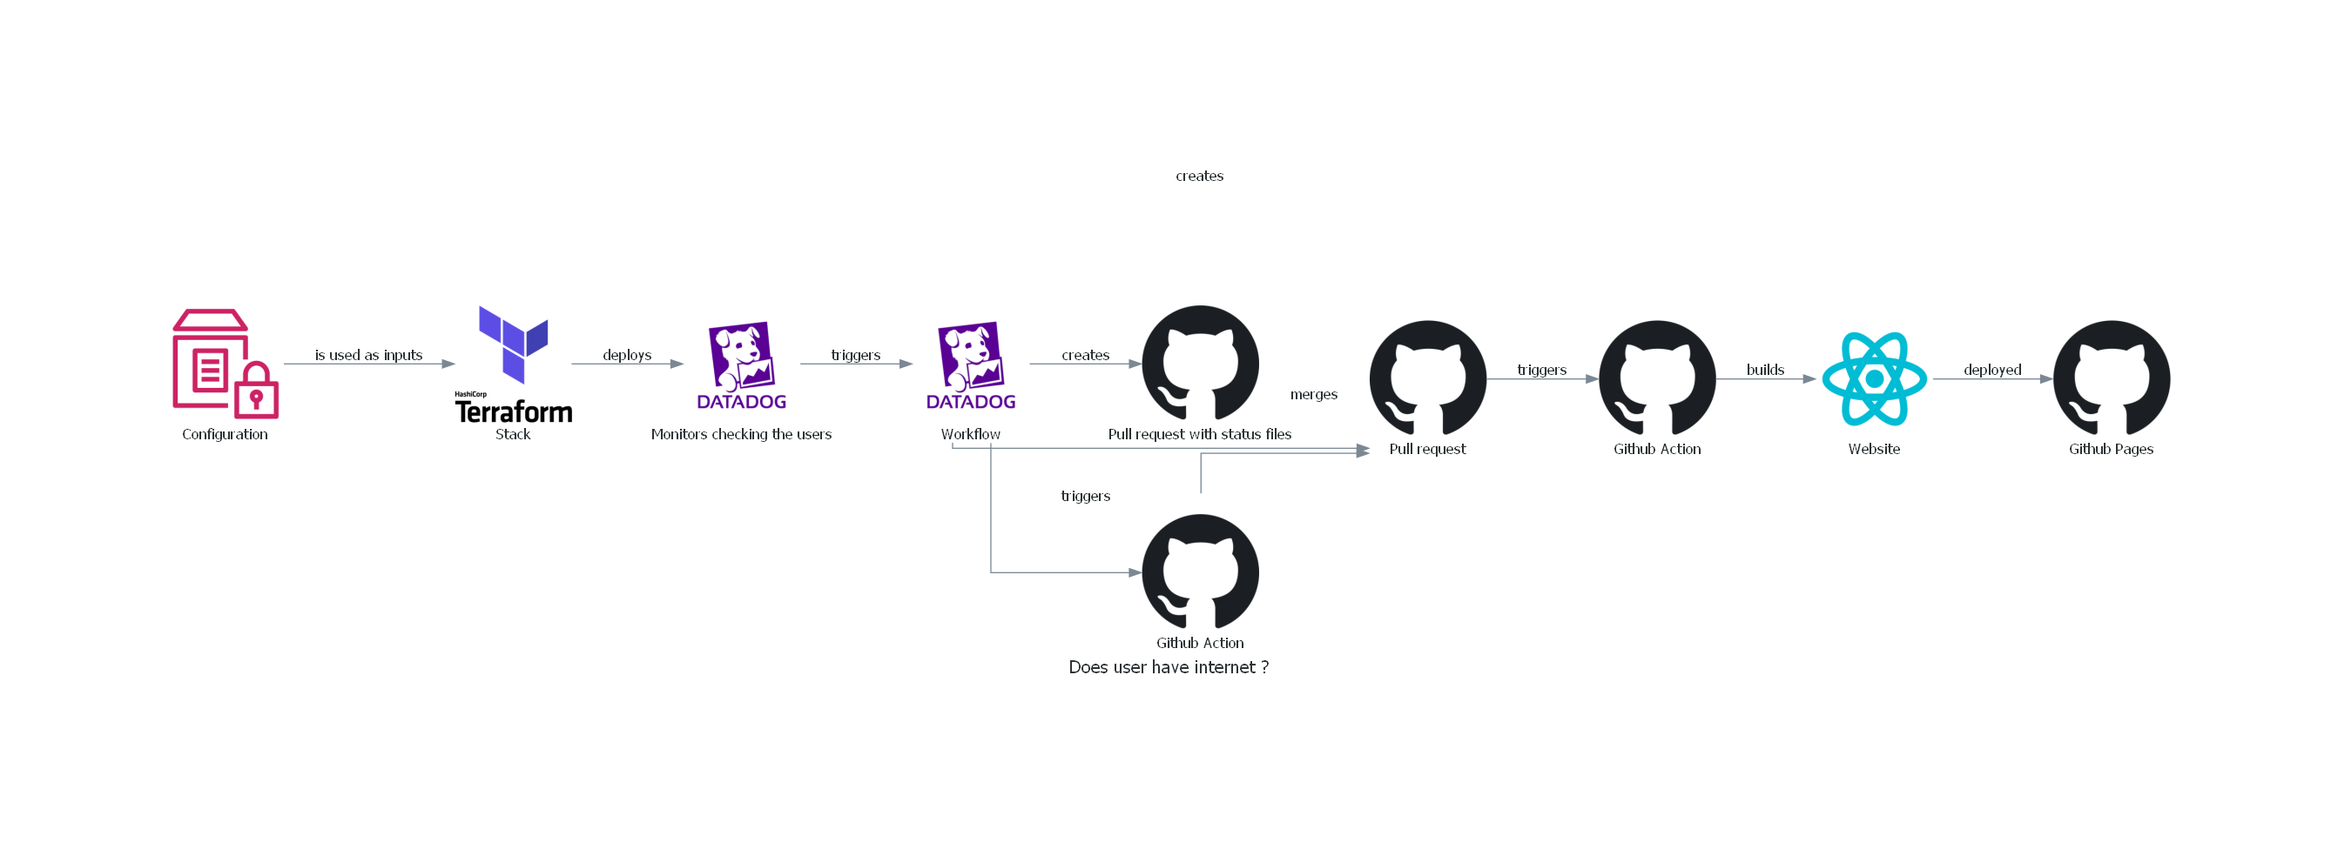
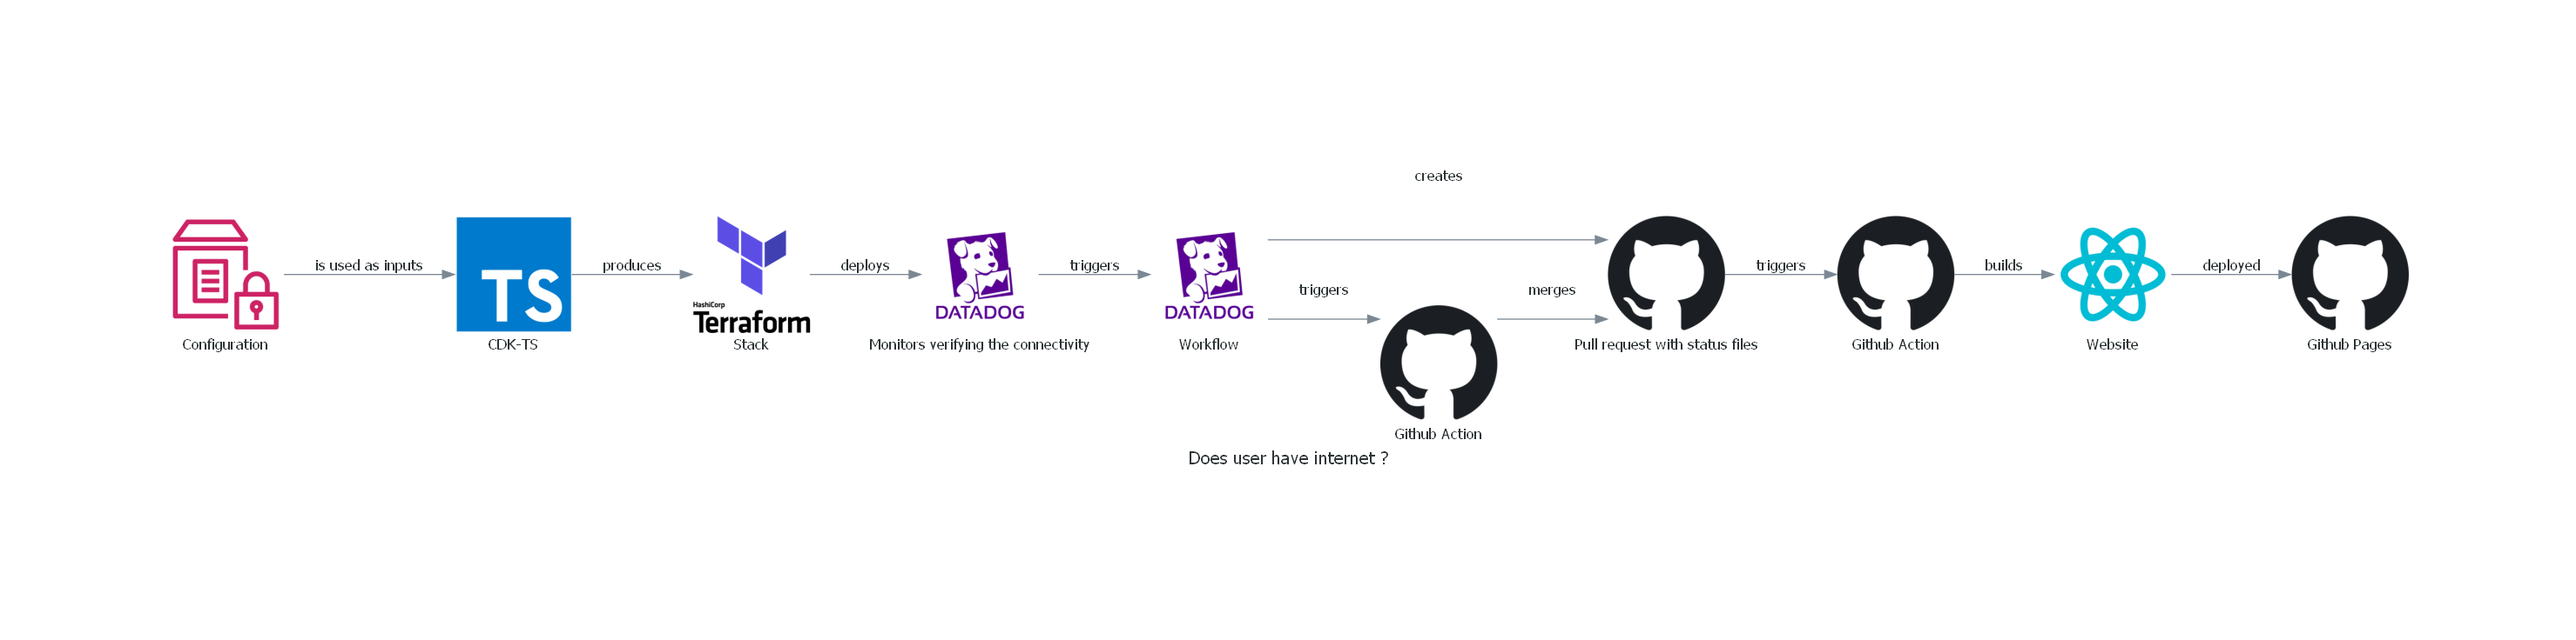
docs(archi): fix architecture

Changed region(s): [[0.0618, 0.3125, 0.9583, 0.8125], [0.8037, 0.5312, 0.8346, 0.5625], [0.4946, 0.1875, 0.5255, 0.2188]]

diff --git a/docs/architecture/diagram.py b/docs/architecture/diagram.py
@@ -3,22 +3,22 @@ from diagrams.aws.management import ParameterStore
 from diagrams.onprem.iac import Terraform
 from diagrams.onprem.vcs import Github
 from diagrams.programming.framework import React
+from diagrams.programming.language import Typescript
 from diagrams.saas.logging import Datadog
 
-with (Diagram("Does user have internet ?", show=True, filename="docs/architecture/architecture")):
+with (Diagram("Does user have internet ?", show=False, filename="docs/architecture/architecture")):
     workflow = Datadog("Workflow")
-    pull_request = Github("Pull request")
+    pull_request = Github("Pull request with status files")
 
     ParameterStore("Configuration") \
-        >> Edge(label="is used as inputs") >> Terraform("Stack") \
-        >> Edge(label="deploys") >> Datadog("Monitors checking the users") \
+        >> Edge(label="is used as inputs") >> Typescript("CDK-TS") \
+        >> Edge(label="produces") >> Terraform("Stack") \
+        >> Edge(label="deploys") >> Datadog("Monitors verifying the connectivity") \
         >> Edge(label="triggers") >> workflow
 
     workflow \
-        >> Edge(label="creates") >> Github("Pull request with status files") \
-
-    workflow \
         >> Edge(label="creates") >> pull_request
+
     workflow \
         >> Edge(label="triggers") >> Github("Github Action") \
         >> Edge(label="merges") >> pull_request \
